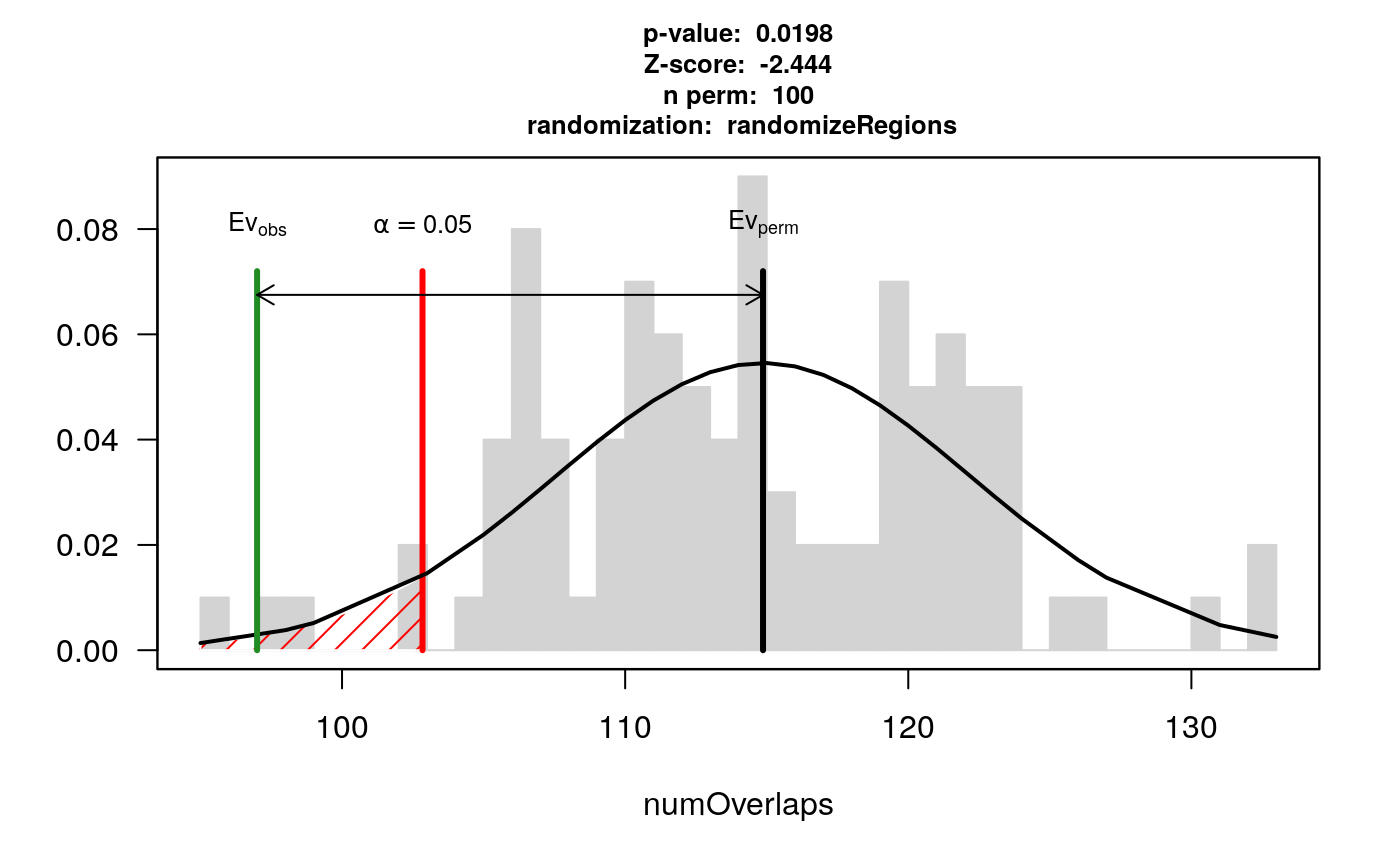
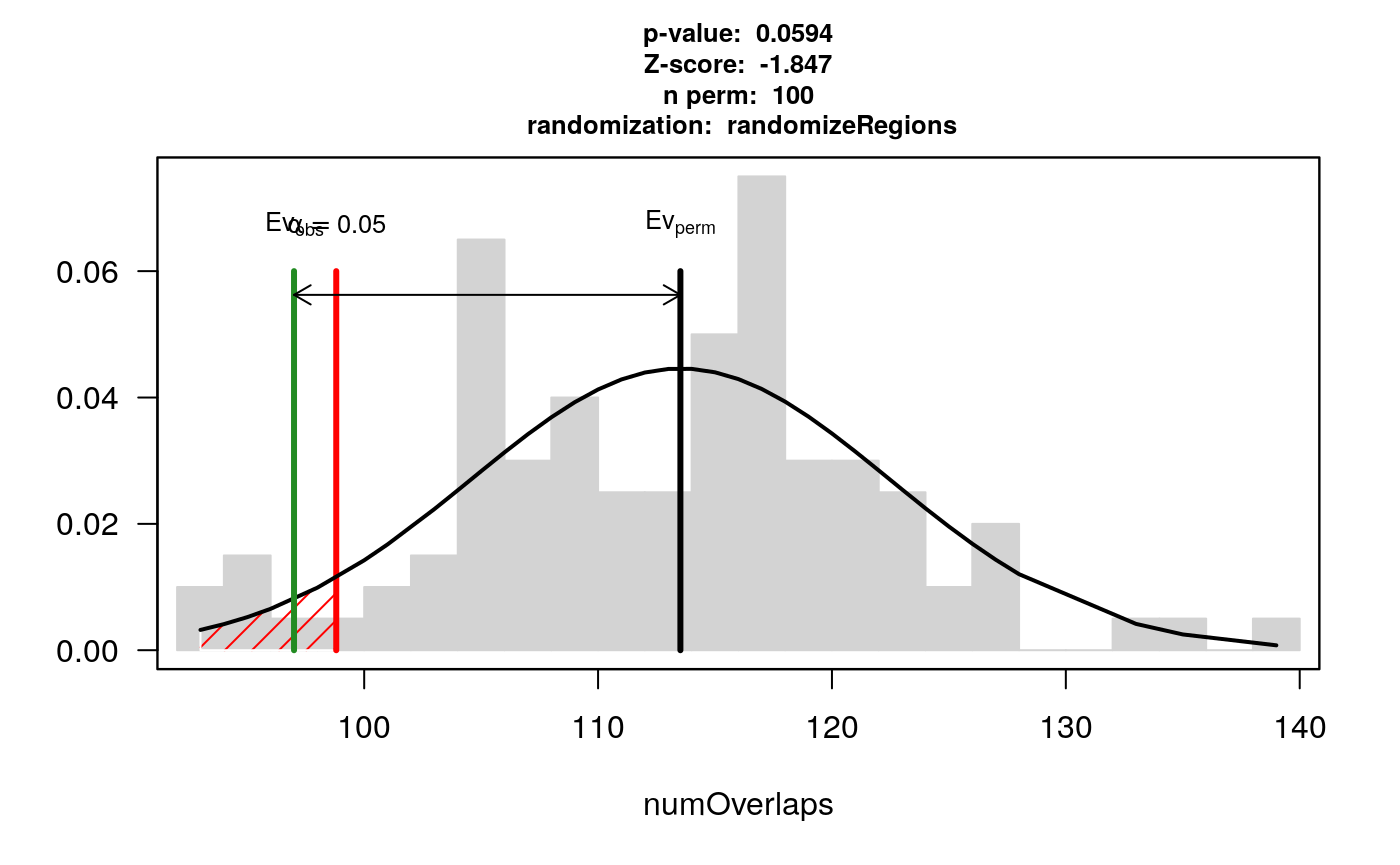
Deploying to gh-pages from  @ 9e45c5674647ddb0b47804c24ef0a325fe08053b 🚀

diff --git a/articles/Geistlinger_CNVWorkshop.html b/articles/Geistlinger_CNVWorkshop.html
@@ -563,17 +563,17 @@ RaggedExperiment object schematic. Rows and columns represent genomic ranges and
 <pre><code>## DataFrame with 711 rows and 2 columns
 ##             weight       fcr
 ##          &lt;numeric&gt; &lt;numeric&gt;
-## NE001357   1207.61      8.09
-## NE001358   1067.02      8.50
-## NE001359   1250.33      8.19
-## NE001360    988.24      6.11
-## NE001361   1117.81      7.92
+## NE001357   1044.06      6.07
+## NE001358   1154.02      5.82
+## NE001359   1196.95      6.06
+## NE001360    963.84      3.46
+## NE001361   1052.68      7.27
 ## ...            ...       ...
-## NE003962   1054.09      5.91
-## NE003963   1077.70      4.99
-## NE003966   1184.39      6.91
-## NE003967   1072.88      4.20
-## NE003968   1023.62      5.11</code></pre>
+## NE003962   1095.86      8.11
+## NE003963   1210.46      2.73
+## NE003966   1083.23      6.37
+## NE003967   1305.92      8.37
+## NE003968   1083.15      6.02</code></pre>
 </div>
 </div>
 <div id="summarizing-individual-cnv-calls-across-a-population" class="section level3">
@@ -660,7 +660,7 @@ RaggedExperiment object schematic. Rows and columns represent genomic ranges and
 <p>To obtain the location of protein-coding genes, we query available <em>Bos taurus</em> annotation from Ensembl</p>
 <div class="sourceCode" id="cb59"><html><body><pre class="r"><span class="fu"><a href="https://rdrr.io/r/base/library.html">library</a></span>(<span class="no">AnnotationHub</span>)
 <span class="no">ah</span> <span class="kw">&lt;-</span> <span class="kw pkg">AnnotationHub</span><span class="kw ns">::</span><span class="fu"><a href="https://rdrr.io/pkg/AnnotationHub/man/AnnotationHub-class.html">AnnotationHub</a></span>()</pre></body></html></div>
-<pre><code>## using temporary cache /tmp/RtmpVDQuIO/BiocFileCache</code></pre>
+<pre><code>## using temporary cache /tmp/Rtmp9gLTWh/BiocFileCache</code></pre>
 <pre><code>## snapshotDate(): 2020-07-20</code></pre>
 <div class="sourceCode" id="cb62"><html><body><pre class="r"><span class="no">ahDb</span> <span class="kw">&lt;-</span> <span class="kw pkg">AnnotationHub</span><span class="kw ns">::</span><span class="fu"><a href="https://rdrr.io/pkg/AnnotationHub/man/AnnotationHub-class.html">query</a></span>(<span class="no">ah</span>, <span class="kw">pattern</span> <span class="kw">=</span> <span class="fu"><a href="https://rdrr.io/r/base/c.html">c</a></span>(<span class="st">"Bos taurus"</span>, <span class="st">"EnsDb"</span>))
 <span class="no">ahDb</span></pre></body></html></div>
@@ -798,8 +798,8 @@ RaggedExperiment object schematic. Rows and columns represent genomic ranges and
     <span class="kw">genome</span><span class="kw">=</span><span class="st">"bosTau6"</span>, <span class="kw">mask</span><span class="kw">=</span><span class="fl">NA</span>, <span class="kw">per.chromosome</span><span class="kw">=</span><span class="fl">TRUE</span>, <span class="kw">count.once</span><span class="kw">=</span><span class="fl">TRUE</span>))
 <span class="no">res</span></pre></body></html></div>
 <pre><code>## $numOverlaps
-## P-value: 0.0198019801980198
-## Z-score: -2.4439
+## P-value: 0.0594059405940594
+## Z-score: -1.8466
 ## Number of iterations: 100
 ## Alternative: less
 ## Evaluation of the original region set: 97
@@ -810,8 +810,8 @@ RaggedExperiment object schematic. Rows and columns represent genomic ranges and
 ## [1] "permTestResultsList"</code></pre>
 <div class="sourceCode" id="cb77"><html><body><pre class="r"><span class="fu"><a href="https://rdrr.io/r/base/summary.html">summary</a></span>(<span class="no">res</span><span class="kw">[[</span><span class="fl">1</span>]]$<span class="no">permuted</span>)</pre></body></html></div>
 <pre><code>##    Min. 1st Qu.  Median    Mean 3rd Qu.    Max. 
-##    95.0   110.0   115.0   114.9   121.0   133.0</code></pre>
-<p>The resulting permutation <em>p</em>-value indicates a significant depletion. Out of the 303 CNV regions, 97 overlap with at least one gene. In contrast, when repeatedly drawing random regions matching the CNV regions in size and chromosomal distribution, the mean number of overlapping regions across permutations was 114.9 <span class="math inline">\(\pm\)</span> 7.3.</p>
+##    93.0   106.8   115.0   113.5   119.2   139.0</code></pre>
+<p>The resulting permutation <em>p</em>-value indicates a significant depletion. Out of the 303 CNV regions, 97 overlap with at least one gene. In contrast, when repeatedly drawing random regions matching the CNV regions in size and chromosomal distribution, the mean number of overlapping regions across permutations was 113.5 <span class="math inline">\(\pm\)</span> 8.9.</p>
 <p>This finding is consistent with our observations across the whole genome (<a href="https://doi.org/10.1371/journal.pone.0157711">da Silva et al., 2016</a>) and findings from the 1000 Genomes Poject (<a href="https://www.nature.com/articles/nature15394">Sudmant et al., 2015</a>).</p>
 <div class="sourceCode" id="cb79"><html><body><pre class="r"><span class="fu"><a href="https://rdrr.io/r/base/plot.html">plot</a></span>(<span class="no">res</span>)</pre></body></html></div>
 <p><img src="Geistlinger_CNVWorkshop_files/figure-html/vizPermTest-1.png" width="100%"></p>
